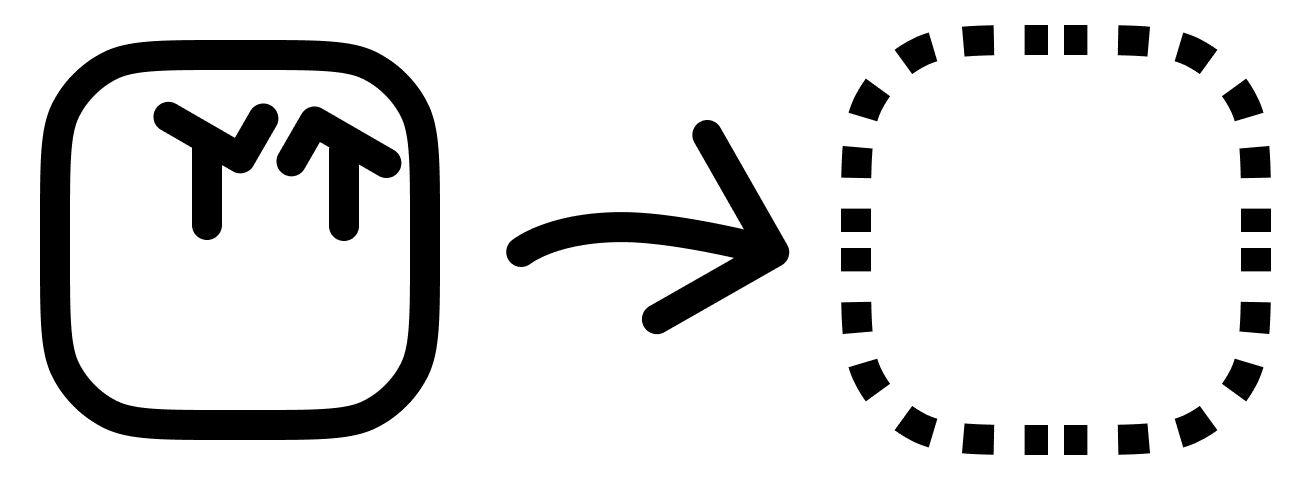
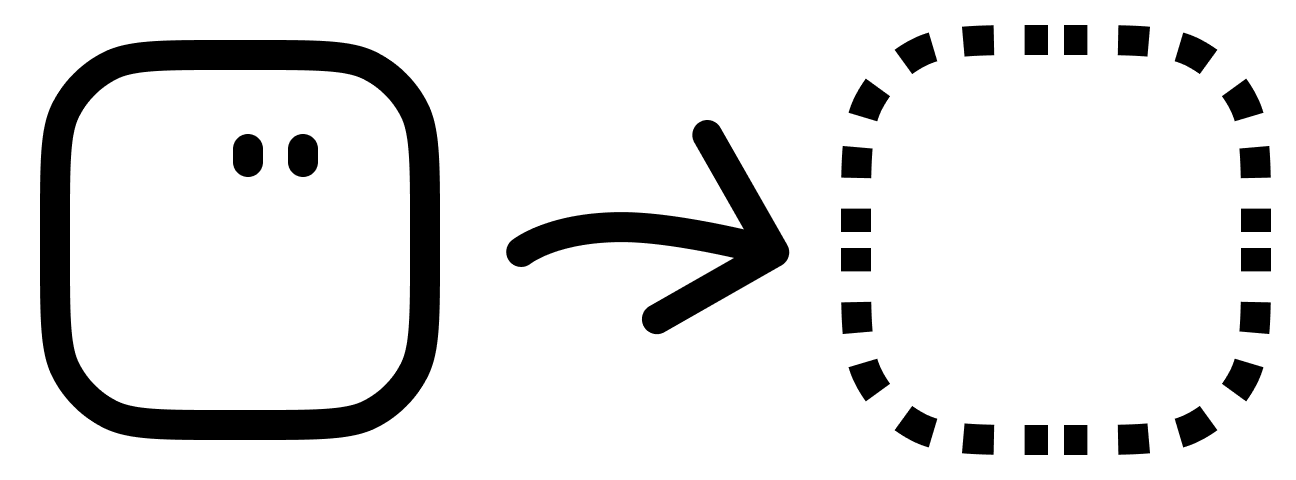
Ajout de banieres illustrative

Changed region(s): [[0.0926, 0.2188, 0.3086, 0.5]]

diff --git a/assets/js/global.js b/assets/js/global.js
@@ -1,9 +1,9 @@
 // -- Systeme pour le darkmod
 
 const ICON_PATHS = {
-  'light': './assets/icon/lightmod.png',
-  'auto': './assets/icon/automod.png',
-  'dark': './assets/icon/darkmod.png'
+  'light': './assets/icon/png/lightmod.png',
+  'auto': './assets/icon/png/automod.png',
+  'dark': './assets/icon/png/darkmod.png'
 };
 
 const themeRadios = document.querySelectorAll('input[name="ThemeOption"]');
@@ -84,17 +84,17 @@ window.matchMedia('(prefers-color-scheme: dark)').addEventListener('change', (e)
 function notif(message, type = 'info') {
     const styles = {
         success: { 
-            icon: './assets/icon/success.png',
+            icon: './assets/icon/png/success.png',
             sound: './assets/sound/success.mp3',
             color: '#9ecaff'
         },
         error: { 
-            icon: './assets/icon/error.png',
+            icon: './assets/icon/png/error.png',
             sound: './assets/sound/error.mp3',
             color: '#9ecaff'
         },
         info: { 
-            icon: './assets/icon/info.png',
+            icon: './assets/icon/png/info.png',
             sound: './assets/sound/success.mp3',
             color: '#9ecaff'
         }
@@ -130,9 +130,9 @@ function notif(message, type = 'info') {
     
     notif.innerHTML = `
         <div class="notif-progress" style="background-color: ${selectedStyle.color || '#ccc'};"></div>
-        <img src="${selectedStyle.icon}" class="notif-icon" onerror="this.src='./assets/icon/icon thin.png'">
+        <img src="${selectedStyle.icon}" class="notif-icon" onerror="this.src='./assets/icon/png/icon thin.png'">
         <span class="notif-message">${message}</span>
-        <img src="./assets/icon/cross.png" class="notif-icon close-btn">
+        <img src="./assets/icon/png/cross.png" class="notif-icon close-btn">
     `;
 
     notif.querySelector('.close-btn').onclick = () => notif.remove();
@@ -163,10 +163,10 @@ const startingMusic = document.getElementById("startinMusic");
 const muteButton = document.getElementById('indexSoundToggle');
 
 const icons = {
-    mute: './assets/icon/volume_off.png',
-    low: './assets/icon/volume_low.png',
-    mid: './assets/icon/volume_mid.png',
-    high: './assets/icon/volume_high.png'
+    mute: './assets/icon/png/volume_off.png',
+    low: './assets/icon/png/volume_low.png',
+    mid: './assets/icon/png/volume_mid.png',
+    high: './assets/icon/png/volume_high.png'
 };
 
 const savedVolume = localStorage.getItem('savedVolume');

diff --git a/room.html b/room.html
@@ -456,6 +456,9 @@
               Tu devras rentrer le code de la room pour revenir.
             </p>
 
+            <img class="banner" src="./assets/banner/leave.png" alt="Bannière Déconnexion"
+              data-i18n="[alt]overlays.logout.banner_alt">
+
             <div class="overlay-footer" style="display: flex; justify-content: center; gap: 15px; margin-top: 30px;">
 
               <a class="button-text" id="confirmLogout" href="#"
@@ -553,13 +556,15 @@
       </div>
 
       <div class="menu-overlay" id="bugReportOverlay" style="display: none;">
-        <div class="menu-box">
+        <div class="menu-box" style="width: 700px;">
           <div class="input" style="padding-bottom: 0;">
             <h1 data-i18n="overlays.bug_report.title">Signaler un problème</h1>
 
             <p style="margin: 15px 0; opacity: 0.7;" data-i18n="overlays.bug_report.message">
               Les logs de la console seront envoyés automatiquement.
             </p>
+
+            <img class="banner" src="./assets/banner/report.png" alt="Bannière Report">
 
             <textarea id="bugDescription" placeholder="Décrivez le problème (optionnel)..."
               data-i18n="overlays.bug_report.placeholder"></textarea>
@@ -718,7 +723,7 @@
   </div>
 
   <div class="menu-overlay" id="languageOverlay" style="display: none;">
-    <div class="menu-box" style="max-width: 400px;">
+    <div class="menu-box" style="max-width: 500px;">
       <div class="input" style="padding-bottom: 0;">
 
         <h1 data-i18n="overlays.settings.language">Langue</h1>
@@ -726,6 +731,8 @@
         <p style="margin: 20px 0; opacity: 0.7; text-align: center;">
           Sélectionnez votre langue
         </p>
+
+        <img class="banner" src="./assets/banner/lang.png" alt="Bannière Langue">
 
         <div style="display: flex; flex-direction: column; gap: 15px; margin: 30px 0;">
 

diff --git a/index.html b/index.html
@@ -162,6 +162,8 @@
                     Entrez le code d'accès pour rejoindre un groupe.
                 </p>
 
+                <img class="banner" src="./assets/banner/search2.png" alt="Bannière Recherche">
+
                 <div style="margin: 30px 0;">
                     <input type="text" id="joinCodeInput" placeholder="Code (ex: 45A2F)"
                         data-i18n="overlays.join.placeholder" style="text-transform: uppercase;" autocomplete="off" />
@@ -178,7 +180,7 @@
 
                     <a class="button-text" id="confirmJoin" href="#"
                         style="width: auto; background-color: #9ecaff; padding: 0 30px; margin: 0; min-width: 140px;">
-                        <img class="icon" src="./assets/icon/png/action.png" alt="">
+                        <img class="icon" src="./assets/icon/png/search.png" alt="">
                         <span class="text" data-i18n="overlays.join.validate">Rejoindre</span>
                     </a>
 

diff --git a/assets/css/style.css b/assets/css/style.css
@@ -826,9 +826,14 @@ textarea:hover:not(:focus) {
 
 .banner {
     display: block;
-    width: 100%;
+    width: 80%;
+    min-width: 300px;
+    max-width: 400px;
     border-radius: 8px;
+    margin: 40px auto;
     object-fit: cover;
+    align-items: center;
+    justify-content: center;
 }
 
 .menu-overlay {
